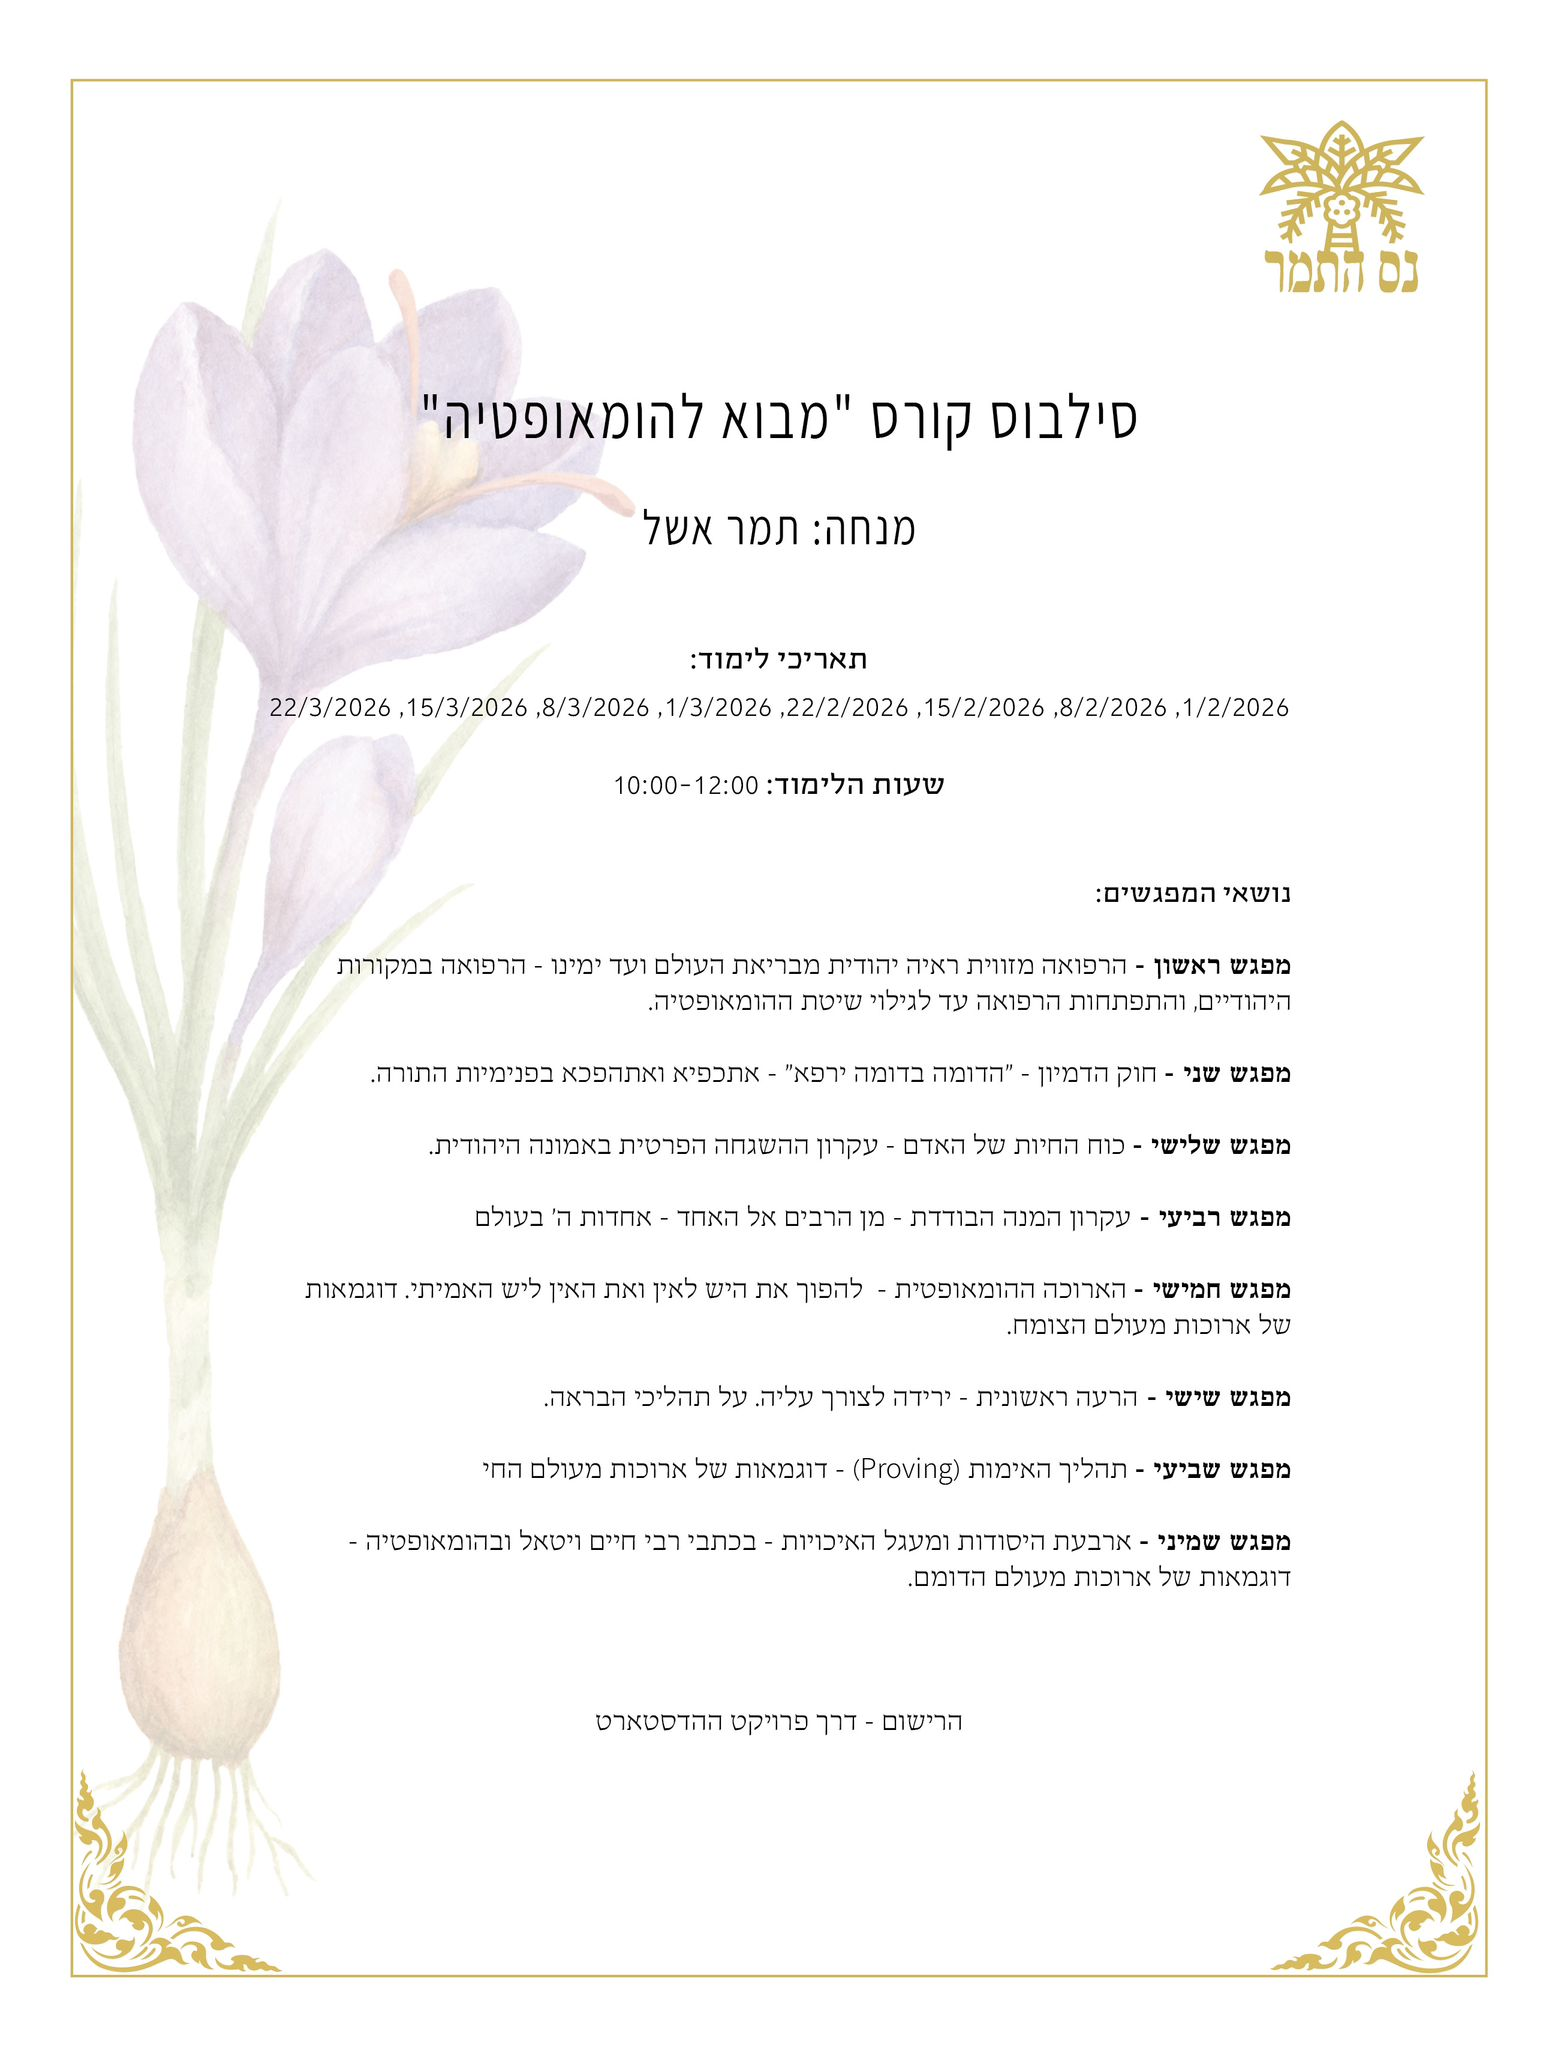
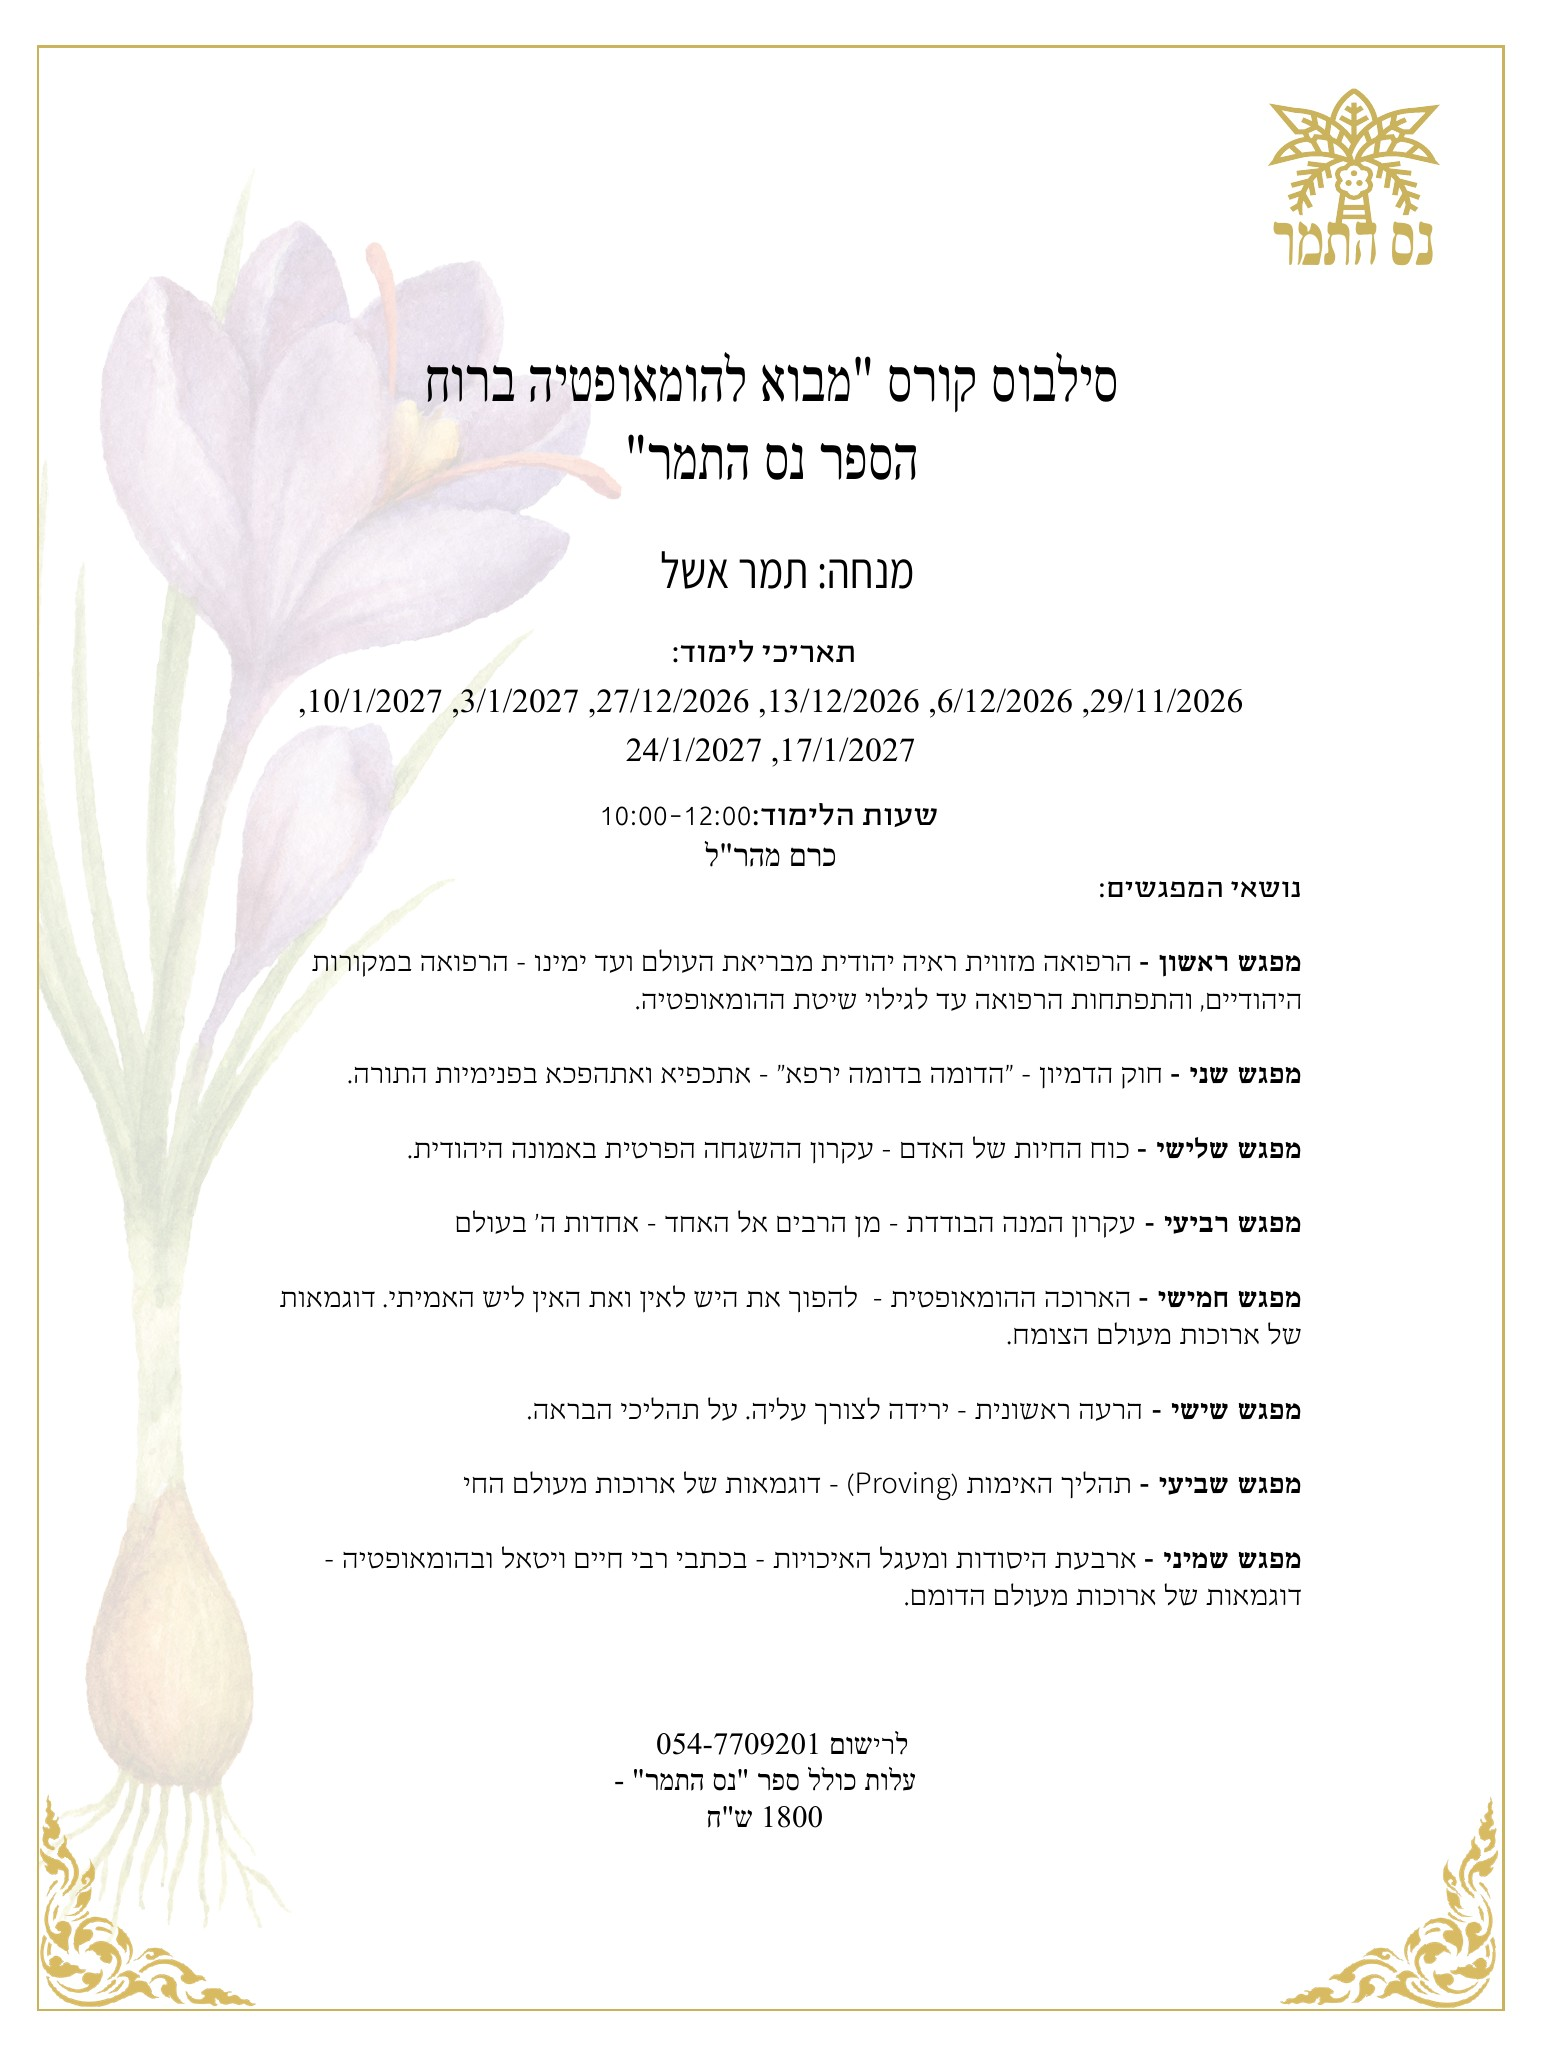
feat: update book prices and course schedule
Book packages are now 1 for 770, 2 for 1300, 3 for 1800 (5-pack removed).
The in-stores comparison and launch-price badge are gone since 770 is now
the online price. Free-shipping incentive is hidden while its threshold
exceeds the largest package.

Course price is 1800 (including the book) everywhere, from a single
COURSE_PRICE constant; the page previously showed 2000 while charging 1600.
Course runs Sundays 10:00-12:00 in Kerem Maharal, 29.11.2026 to 24.1.2027,
with the new syllabus image.

diff --git a/components/PurchaseForm.tsx b/components/PurchaseForm.tsx
@@ -2,7 +2,7 @@
 
 import { useState, useMemo } from 'react';
 import { useTranslations, useLocale } from 'next-intl';
-import { calculateBookPrice, BOOK_PACKAGES, BOOK_LIST_PRICE } from '@/lib/book-pricing';
+import { calculateBookPrice, BOOK_PACKAGES, MAX_BOOK_QUANTITY } from '@/lib/book-pricing';
 import { calculateShipping } from '@/lib/shipping-calculator';
 import { isValidPhone } from '@/lib/phone-validation';
 import { COUNTRIES, DEFAULT_COUNTRY_CODE } from '@/lib/countries';
@@ -53,7 +53,7 @@ export default function PurchaseForm({ product, basePrice }: PurchaseFormProps) 
     if (product === 'book') {
       return calculateBookPrice(quantity);
     }
-    return { totalPrice: basePrice, unitPrice: basePrice, savings: 0, quantity: 1, listPrice: basePrice };
+    return { totalPrice: basePrice, unitPrice: basePrice, savings: 0, quantity: 1 };
   }, [product, quantity, basePrice]);
 
   const currentBasePrice = priceInfo.totalPrice;
@@ -314,7 +314,7 @@ export default function PurchaseForm({ product, basePrice }: PurchaseFormProps) 
                 {t('form.internationalShippingNotice', { cost: shippingResult.shippingCost })}
               </span>
             ) : (
-              !shippingResult.isFreeShipping && (
+              !shippingResult.isFreeShipping && shippingResult.threshold <= MAX_BOOK_QUANTITY && (
                 <span className="text-sm text-gold font-medium">
                   {t('form.freeShippingIncentive', { threshold: shippingResult.threshold })}
                 </span>
@@ -445,24 +445,10 @@ export default function PurchaseForm({ product, basePrice }: PurchaseFormProps) 
 
       {/* Price Summary */}
       <div className="bg-gold/5 rounded-xl p-6 space-y-3">
-        {product === 'book' && (
-          <div className="flex justify-between text-sm text-dark/50">
-            <span>{t('summary.storePrice')}</span>
-            <span>
-              (₪{BOOK_LIST_PRICE.toLocaleString()}
-              {quantity > 1 && ` × ${quantity}`})
-            </span>
-          </div>
-        )}
         {product === 'book' && quantity > 1 ? (
           <>
             <div className="flex justify-between items-center text-dark gap-2">
-              <span className="flex items-center gap-2 flex-wrap">
-                {t('summary.unitPrice')}
-                <span className="text-[10px] font-semibold text-gold bg-gold/10 border border-gold/30 rounded-full px-1.5 py-0.5 uppercase tracking-wide">
-                  {t('bookInfo.launchPriceBadge')}
-                </span>
-              </span>
+              <span>{t('summary.unitPrice')}</span>
               <span>₪{priceInfo.unitPrice.toLocaleString()} × {quantity}</span>
             </div>
             <div className="flex justify-between text-dark">
@@ -478,14 +464,7 @@ export default function PurchaseForm({ product, basePrice }: PurchaseFormProps) 
           </>
         ) : (
           <div className="flex justify-between items-center text-dark gap-2">
-            <span className="flex items-center gap-2 flex-wrap">
-              {product === 'book' ? t('summary.bookPrice') : t('summary.coursePrice')}
-              {product === 'book' && (
-                <span className="text-[10px] font-semibold text-gold bg-gold/10 border border-gold/30 rounded-full px-1.5 py-0.5 uppercase tracking-wide">
-                  {t('bookInfo.launchPriceBadge')}
-                </span>
-              )}
-            </span>
+            <span>{product === 'book' ? t('summary.bookPrice') : t('summary.coursePrice')}</span>
             <span>₪{currentBasePrice.toLocaleString()}</span>
           </div>
         )}

diff --git a/app/[locale]/purchase/page.tsx b/app/[locale]/purchase/page.tsx
@@ -6,10 +6,10 @@ import AnimateOnScroll from '@/components/AnimateOnScroll';
 import PurchaseForm from '@/components/PurchaseForm';
 import { generatePageMetadata } from '@/lib/og-metadata';
 import { CheckCircleIcon, ArrowRightIcon, BookIcon, CalendarIcon, ClockIcon, MailIcon, StarIcon } from '@/components/icons/Icons';
-import { BOOK_LIST_PRICE, SINGLE_BOOK_PRICE } from '@/lib/book-pricing';
+import { SINGLE_BOOK_PRICE } from '@/lib/book-pricing';
+import { COURSE_PRICE } from '@/lib/course-pricing';
 
 const BOOK_PRICE = SINGLE_BOOK_PRICE;
-const COURSE_PRICE = 1600;
 
 type ProductType = 'book' | 'course';
 
@@ -118,17 +118,8 @@ export default async function PurchasePage({
                     </div>
 
                     {productType === 'book' && (
-                      <div className="flex flex-wrap items-baseline gap-x-4 gap-y-1 px-4">
-                        <div className="flex items-baseline gap-1.5 text-dark/50">
-                          <span className="text-base">(₪{BOOK_LIST_PRICE} {t('bookInfo.inStoresLabel')})</span>
-                        </div>
-                        <div className="flex items-baseline gap-x-2 gap-y-1 flex-wrap">
-                          <span className="text-gold font-bold text-2xl">₪{SINGLE_BOOK_PRICE}</span>
-                          <span className="text-xs text-dark/60">{t('bookInfo.onlineLabel')}</span>
-                          <span className="text-[11px] font-semibold text-gold bg-gold/10 border border-gold/30 rounded-full px-2 py-0.5 uppercase tracking-wide">
-                            {t('bookInfo.launchPriceBadge')}
-                          </span>
-                        </div>
+                      <div className="px-4">
+                        <span className="text-gold font-bold text-2xl">₪{SINGLE_BOOK_PRICE}</span>
                       </div>
                     )}
                   </div>

diff --git a/lib/book-pricing.ts b/lib/book-pricing.ts
@@ -6,32 +6,27 @@
 
 // Fixed pricing packages (only these quantities are available)
 export const BOOK_PACKAGES = [
-  { quantity: 1, totalPrice: 550 },
-  { quantity: 2, totalPrice: 990 },
-  { quantity: 5, totalPrice: 2250 },
+  { quantity: 1, totalPrice: 770 },
+  { quantity: 2, totalPrice: 1300 },
+  { quantity: 3, totalPrice: 1800 },
 ] as const;
 
 // Single book price for reference
-export const SINGLE_BOOK_PRICE = 550;
-
-// List price (price charged in physical stores). Display-only reference for
-// the "in stores vs online" channel comparison. Never used in charge logic.
-export const BOOK_LIST_PRICE = 770;
+export const SINGLE_BOOK_PRICE = 770;
 
 // Maximum allowed quantity (highest package)
-export const MAX_BOOK_QUANTITY = 5;
+export const MAX_BOOK_QUANTITY = 3;
 
 export interface BookPriceResult {
   totalPrice: number;
   unitPrice: number;
   savings: number; // Compared to buying individually
   quantity: number;
-  listPrice: number; // BOOK_LIST_PRICE * quantity (display-only)
 }
 
 /**
  * Get price for a specific quantity package.
- * Only valid for quantities: 1, 2, 5
+ * Only valid for quantities: 1, 2, 3
  */
 export function calculateBookPrice(quantity: number): BookPriceResult {
   const pkg = BOOK_PACKAGES.find(p => p.quantity === quantity);
@@ -43,7 +38,6 @@ export function calculateBookPrice(quantity: number): BookPriceResult {
       unitPrice: SINGLE_BOOK_PRICE,
       savings: 0,
       quantity: 1,
-      listPrice: BOOK_LIST_PRICE,
     };
   }
 
@@ -52,7 +46,6 @@ export function calculateBookPrice(quantity: number): BookPriceResult {
     unitPrice: Math.round(pkg.totalPrice / pkg.quantity),
     savings: (SINGLE_BOOK_PRICE * pkg.quantity) - pkg.totalPrice,
     quantity: pkg.quantity,
-    listPrice: BOOK_LIST_PRICE * pkg.quantity,
   };
 }
 

diff --git a/components/admin/CouponForm.tsx b/components/admin/CouponForm.tsx
@@ -137,7 +137,7 @@ export default function CouponForm({ coupon, onSubmit, onCancel }: CouponFormPro
                   onChange={() => handleProductToggle('book')}
                   className="w-5 h-5 text-gold rounded focus:ring-gold/20"
                 />
-                <span className="text-sm text-dark">ספר (₪550)</span>
+                <span className="text-sm text-dark">ספר (₪770)</span>
               </label>
               <label className="flex items-center gap-2 cursor-pointer">
                 <input
@@ -146,7 +146,7 @@ export default function CouponForm({ coupon, onSubmit, onCancel }: CouponFormPro
                   onChange={() => handleProductToggle('course')}
                   className="w-5 h-5 text-gold rounded focus:ring-gold/20"
                 />
-                <span className="text-sm text-dark">קורס (₪1,600)</span>
+                <span className="text-sm text-dark">קורס (₪1,800)</span>
               </label>
             </div>
             <p className="text-xs text-gray-500 mt-1">

diff --git a/lib/coupon-validator.ts b/lib/coupon-validator.ts
@@ -1,8 +1,8 @@
 import { Coupon, CouponValidationResult, CouponCreateInput, CouponUpdateInput, ProductType } from '@/types/coupon';
 import * as storage from './coupon-storage';
 import { calculateBookPrice, SINGLE_BOOK_PRICE } from './book-pricing';
+import { COURSE_PRICE } from './course-pricing';
 
-const COURSE_PRICE = 1600; // Base price in NIS
 const BOOK_PRICE = SINGLE_BOOK_PRICE; // Single book price in NIS
 
 // Re-export ProductType for backward compatibility

diff --git a/lib/course-pricing.ts b/lib/course-pricing.ts
@@ -1,0 +1,5 @@
+/**
+ * Course price in NIS (includes the Nes HaTamar book).
+ * Single source of truth for charge logic; display strings live in messages/*.json.
+ */
+export const COURSE_PRICE = 1800;
